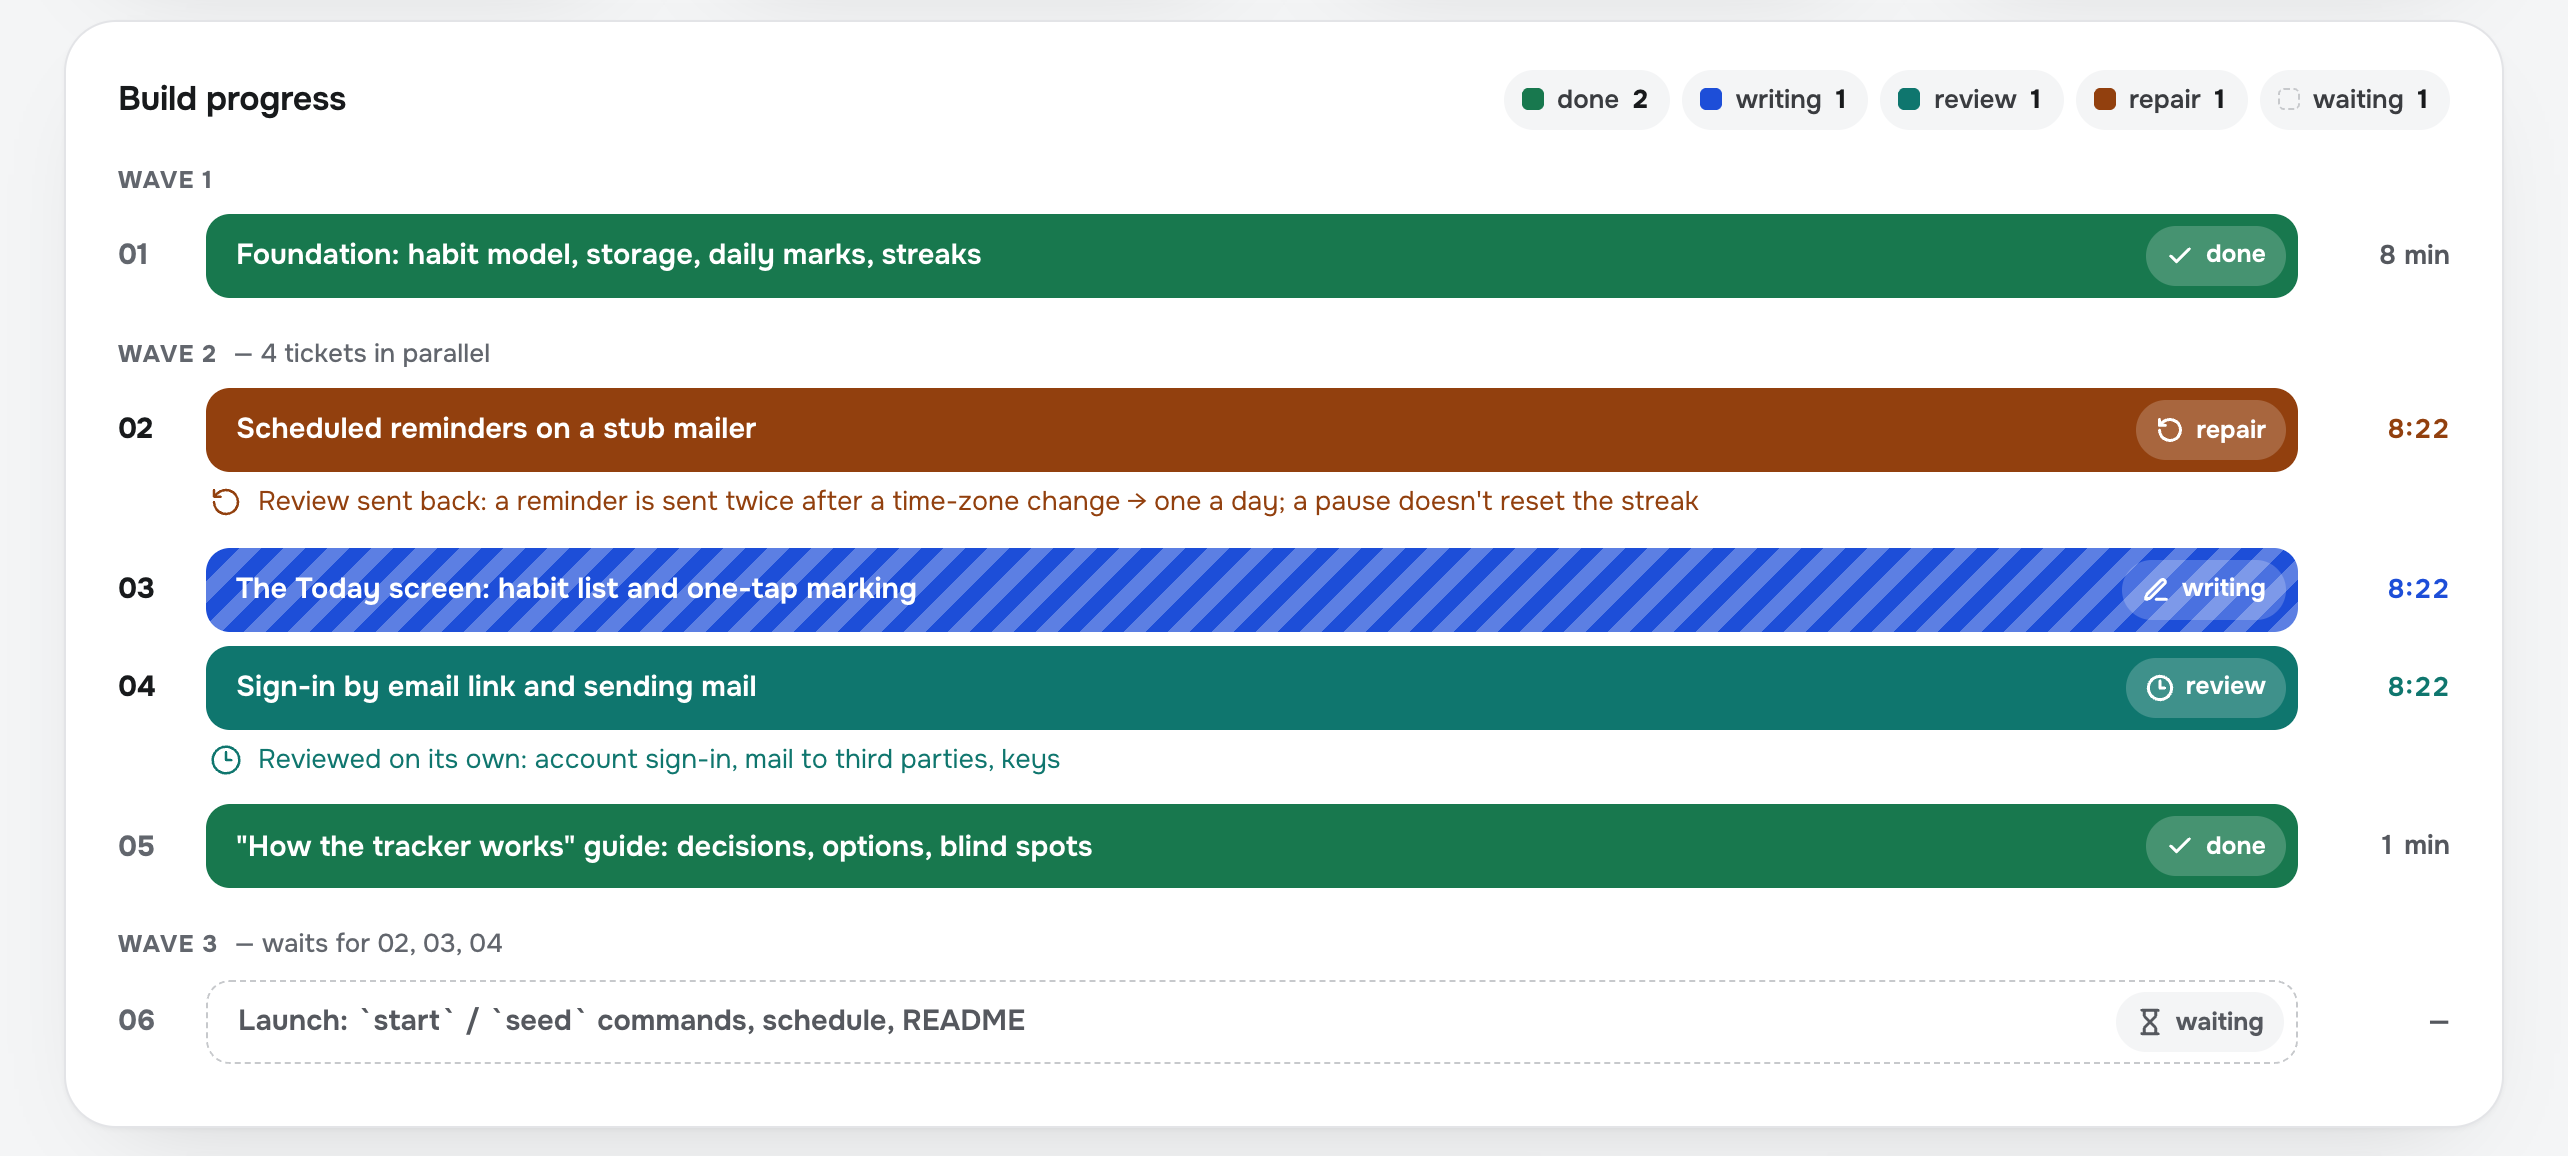
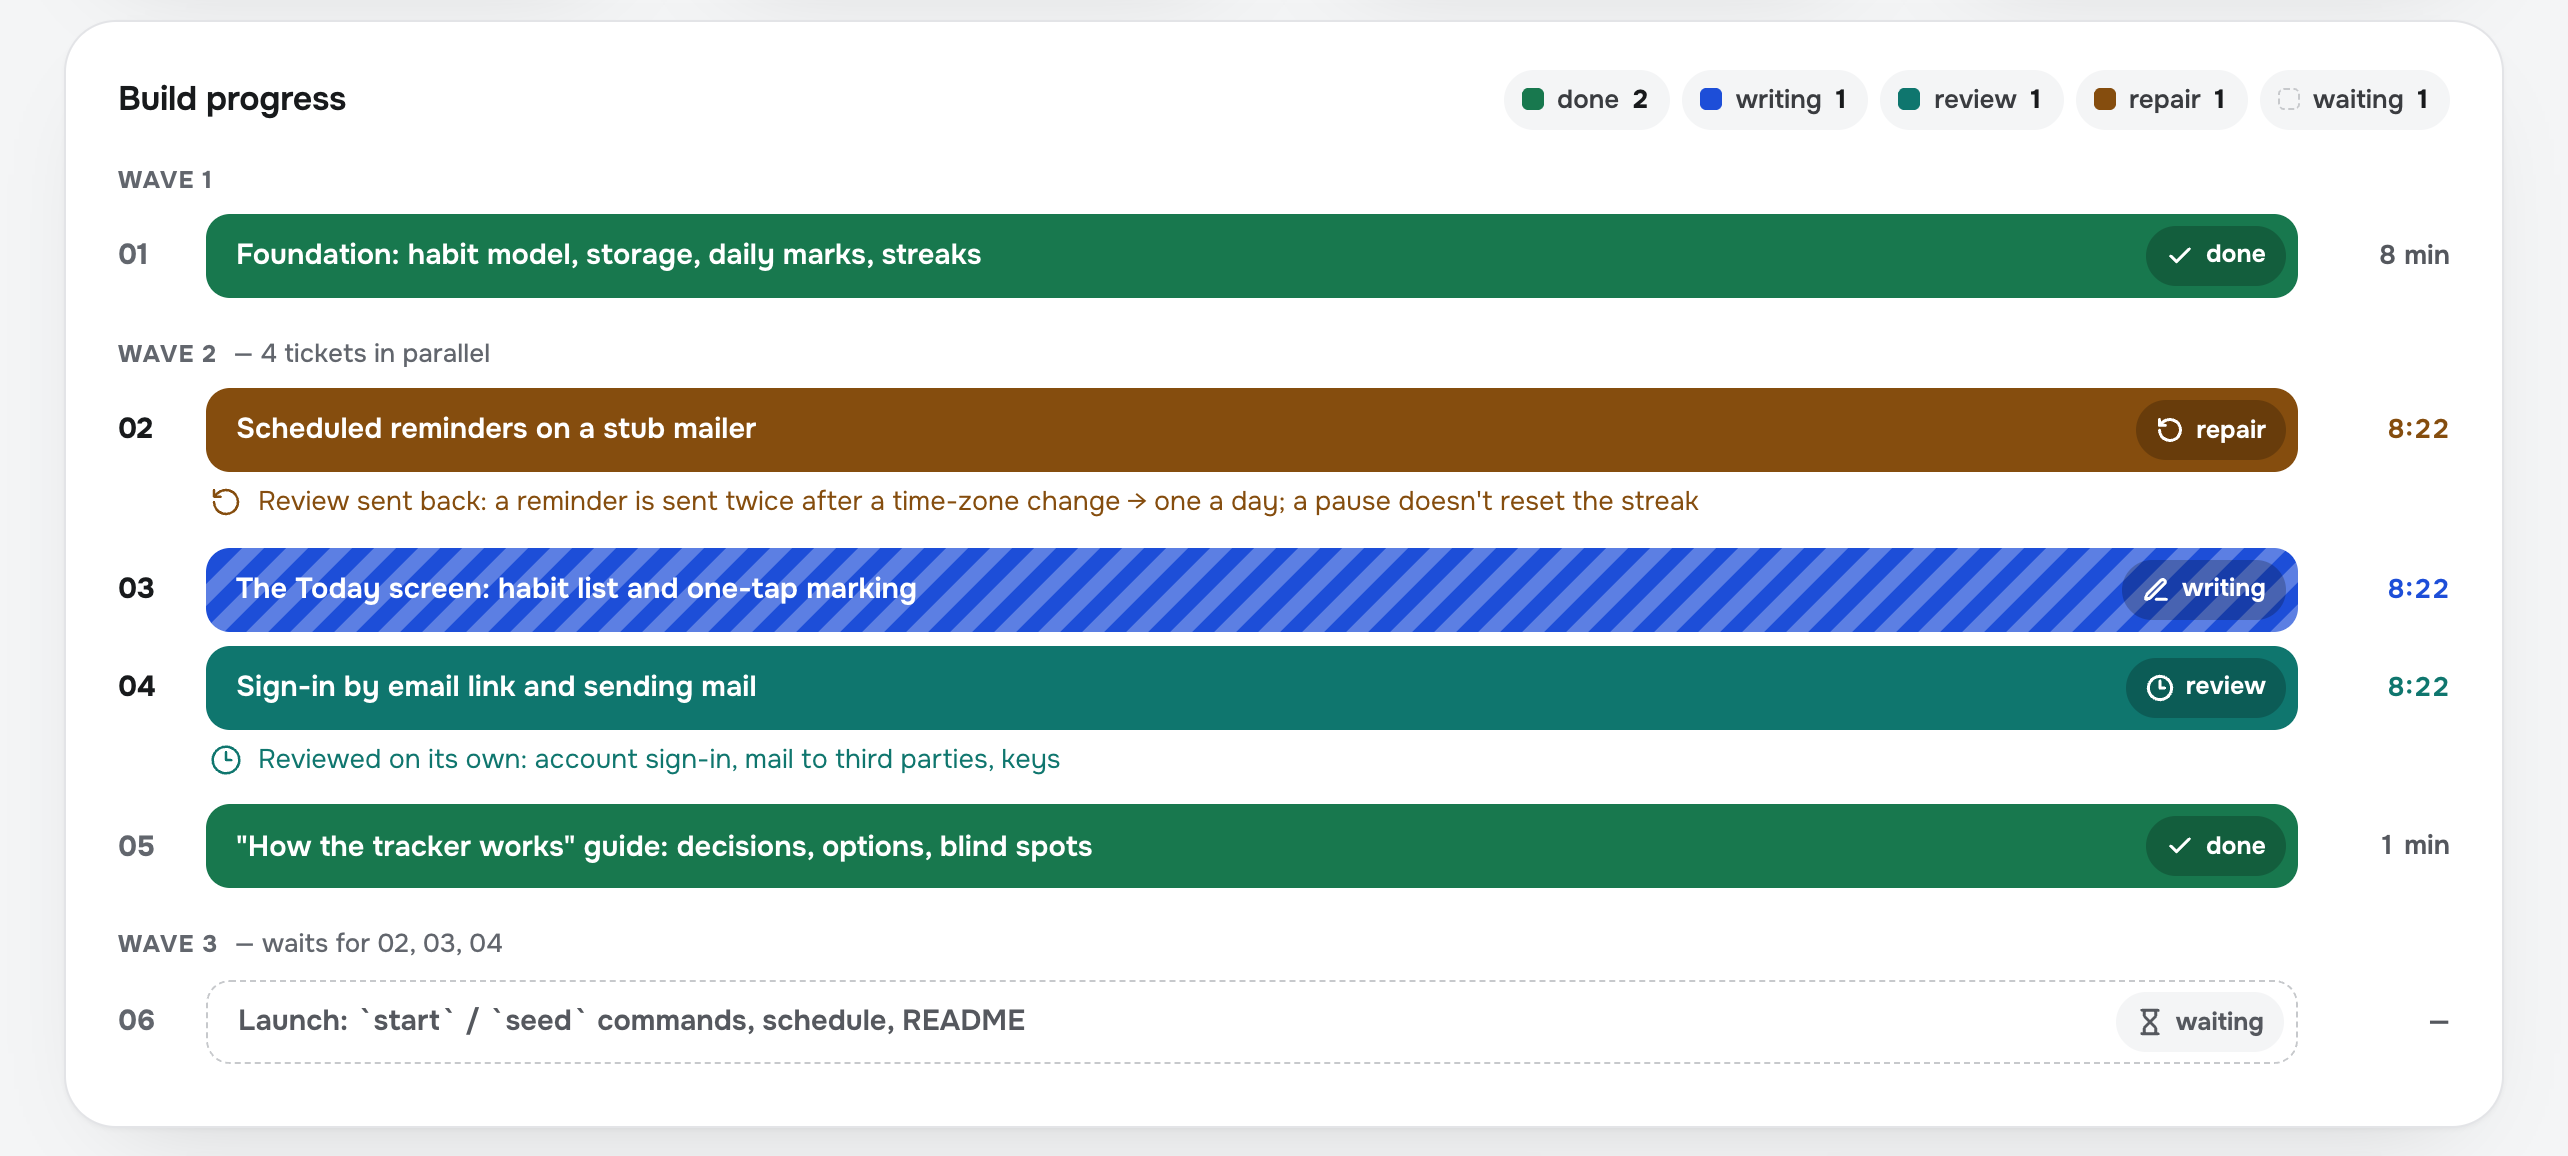
AISpa 1.0: цвета ремонта и сбоя из AISpa 0.5, контраст плашек и подзаголовка, подписи производных цветов, снимки
Ремонт #854D0E и сбой #991B1B — как в панели 0.5; подложка плашек на цветных полосах (белый текст 7,8–11:1);
подзаголовок зелёной шапки 4,8:1; комментарий у токенов: что из 0.5, что производное. Снимки README пересняты.

diff --git a/skills/aispa/phases/dashboard-template.html b/skills/aispa/phases/dashboard-template.html
@@ -10,7 +10,10 @@
 <style>
   /* Цвет здесь — сигнал, а не украшение: у каждого состояния сборки свой.
      Графит — идёт работа, хром — ждём человека, синий — таск пишется,
-     зелёный — сдано, бирюзовый — проверка, янтарный — ремонт, красный — упало. */
+     зелёный — сдано, бирюзовый — проверка, янтарный — ремонт, красный — упало.
+     Палитра — AISpa 0.5: графит, хром, синий, бирюзовый, ремонт #854D0E, упало #991B1B и светлые плашки.
+     Производные (в 0.5 такой роли нет): --done #18784E (темнее #1F8A5B ради белого текста AA), --tx2, --line2,
+     тёмные --inset и градиент шапки, #34A56F и #4F7DF0 на полосе этапов. */
   :root{
     --bg:#F4F5F6; --card:#FFFFFF; --inset:#F4F5F6; --soft:#ECEDEF; --line:#E3E4E7; --line2:#D5D7DB;
     --tx:#181A1C; --tx2:#3A3C40; --mut:#55585E; --quiet:#62666D;
@@ -18,8 +21,8 @@
     --done:#18784E; --done-soft:#DCFCE7; --done-tx:#166534;
     --now:#1D4ED8; --now-on:#FFFFFF; --now-soft:#DBEAFE; --now-tx:#1D4ED8;
     --rev:#0F766E; --rev-soft:#CCFBF1; --rev-tx:#0F766E;
-    --fix:#92400E; --fix-soft:#FEF3C7; --fix-tx:#92400E;
-    --bad:#B91C1C; --bad-soft:#FEE2E2; --bad-tx:#991B1B;
+    --fix:#854D0E; --fix-soft:#FEF3C7; --fix-tx:#854D0E;
+    --bad:#991B1B; --bad-soft:#FEE2E2; --bad-tx:#991B1B;
     --idle:#C7C9CC; --logo-filter:none;
     --sh:0 1px 2px rgba(20,20,22,.04),0 20px 50px -30px rgba(20,20,22,.22);
     --sh-raised:0 1px 2px rgba(20,20,22,.04),0 16px 36px -24px rgba(20,20,22,.24);
@@ -32,8 +35,8 @@
       --done:#18784E; --done-soft:#123523; --done-tx:#86EFAC;
       --now-soft:#192E50; --now-tx:#93C5FD;
       --rev:#0F766E; --rev-soft:#123D38; --rev-tx:#99F6E4;
-      --fix:#92400E; --fix-soft:#3D3217; --fix-tx:#FDE68A;
-      --bad:#B91C1C; --bad-soft:#431C22; --bad-tx:#FCA5A5;
+      --fix:#854D0E; --fix-soft:#3D3217; --fix-tx:#FDE68A;
+      --bad:#991B1B; --bad-soft:#431C22; --bad-tx:#FCA5A5;
       --idle:#4A4C52; --logo-filter:invert(1);
       --sh:0 1px 0 rgba(255,255,255,.04) inset,0 20px 50px -30px rgba(0,0,0,.8);
       --sh-raised:0 16px 36px -24px rgba(0,0,0,.8);
@@ -47,8 +50,8 @@
     --done:#18784E; --done-soft:#123523; --done-tx:#86EFAC;
     --now-soft:#192E50; --now-tx:#93C5FD;
     --rev:#0F766E; --rev-soft:#123D38; --rev-tx:#99F6E4;
-    --fix:#92400E; --fix-soft:#3D3217; --fix-tx:#FDE68A;
-    --bad:#B91C1C; --bad-soft:#431C22; --bad-tx:#FCA5A5;
+    --fix:#854D0E; --fix-soft:#3D3217; --fix-tx:#FDE68A;
+    --bad:#991B1B; --bad-soft:#431C22; --bad-tx:#FCA5A5;
     --idle:#4A4C52; --logo-filter:invert(1);
     --sh:0 1px 0 rgba(255,255,255,.04) inset,0 20px 50px -30px rgba(0,0,0,.8);
     --sh-raised:0 16px 36px -24px rgba(0,0,0,.8);
@@ -102,8 +105,8 @@
     border-radius:28px;padding:28px 30px 26px;display:flex;flex-direction:column;gap:28px;
     background:var(--hero);color:var(--h-tx);box-shadow:0 30px 60px -32px var(--hero-shadow);min-width:0}
   .hero.ask{background:linear-gradient(165deg,#FFFFFF 0%,#E0E2E5 45%,#C7C9CC 100%);--h-tx:#171717;--h-mut:rgba(23,23,23,.78);--h-track:rgba(23,23,23,.14);box-shadow:0 30px 60px -30px rgba(20,20,22,.45),inset 0 1px 0 #fff}
-  .hero.won{background:#18784E;--h-track:rgba(255,255,255,.22);box-shadow:0 30px 60px -30px rgba(24,120,78,.6)}
-  .hero.bad{background:#B91C1C;--h-track:rgba(255,255,255,.22);box-shadow:0 30px 60px -30px rgba(185,28,28,.55)}
+  .hero.won{background:#18784E;--h-mut:rgba(255,255,255,.9);--h-track:rgba(255,255,255,.22);box-shadow:0 30px 60px -30px rgba(24,120,78,.6)}
+  .hero.bad{background:#991B1B;--h-track:rgba(255,255,255,.22);box-shadow:0 30px 60px -30px rgba(153,27,27,.55)}
   .hero-top{display:flex;flex-wrap:wrap;justify-content:space-between;align-items:flex-end;gap:20px 40px}
   .hero-main{flex:1 1 420px;min-width:0}
   .state{display:inline-flex;align-items:center;gap:9px;font-size:14px;font-weight:700;margin-bottom:12px}
@@ -134,7 +137,7 @@
   .hero.ask .live{background:#171717;outline:0}
   @keyframes pulse{0%{box-shadow:0 0 0 0 rgba(29,78,216,.6)}70%{box-shadow:0 0 0 9px rgba(29,78,216,0)}100%{box-shadow:0 0 0 0 rgba(29,78,216,0)}}
   .badge-ic{width:26px;height:26px;border-radius:50%;background:#fff;display:inline-flex;align-items:center;justify-content:center}
-  .hero.won .badge-ic{color:#18784E}.hero.bad .badge-ic{color:#B91C1C}
+  .hero.won .badge-ic{color:#18784E}.hero.bad .badge-ic{color:#991B1B}
   .stripes{background-image:linear-gradient(135deg,rgba(255,255,255,.28) 25%,transparent 25%,transparent 50%,rgba(255,255,255,.28) 50%,rgba(255,255,255,.28) 75%,transparent 75%,transparent);background-size:22px 22px;animation:stripes 1.1s linear infinite}
   .hero.ask .stripes{background-image:linear-gradient(135deg,rgba(23,23,23,.28) 25%,transparent 25%,transparent 50%,rgba(23,23,23,.28) 50%,rgba(23,23,23,.28) 75%,transparent 75%,transparent)}
   @keyframes stripes{to{background-position:22px 0}}
@@ -176,8 +179,7 @@
   .tl-id.on{color:var(--tx)}
   .bar{height:42px;border-radius:12px;display:flex;align-items:center;justify-content:space-between;gap:10px;padding:0 6px 0 15px;font-size:14.5px;font-weight:650;min-width:0}
   .bar .nm{overflow:hidden;text-overflow:ellipsis;white-space:nowrap;min-width:0}
-  .chipin{flex:0 0 auto;display:inline-flex;align-items:center;gap:6px;height:30px;padding:0 10px;border-radius:999px;background:rgba(255,255,255,.2);font-size:12.5px;font-weight:700;white-space:nowrap}
-  .f-now .chipin{background:rgba(255,255,255,.2)}
+  .chipin{flex:0 0 auto;display:inline-flex;align-items:center;gap:6px;height:30px;padding:0 10px;border-radius:999px;background:rgba(0,0,0,.22);font-size:12.5px;font-weight:700;white-space:nowrap}
   .f-wait .chipin{background:var(--inset);color:var(--mut)}
   .tl-time{font-size:13.5px;font-weight:650;text-align:right;color:var(--mut);white-space:nowrap}
   .tl-time.now{color:var(--now-tx)}.tl-time.fix{color:var(--fix-tx)}.tl-time.rev{color:var(--rev-tx)}.tl-time.bad{color:var(--bad-tx)}
